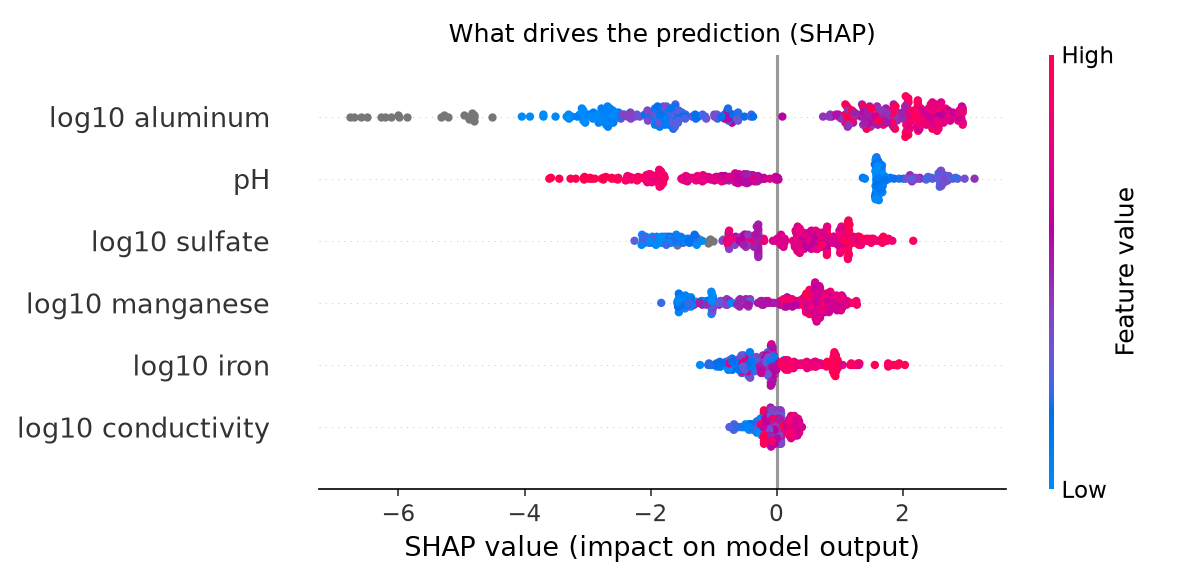
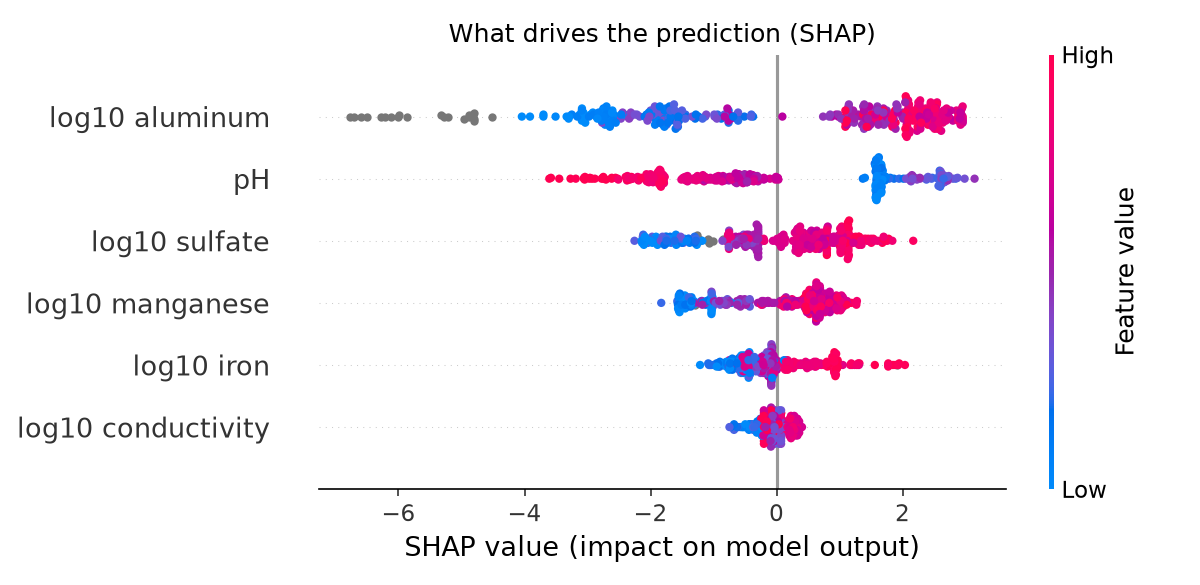
Refine ranking: magnitude model, tiers, sensitivity, field shortlist
- Add log10 Y regression (spatial CV R2 0.85, Spearman 0.92) to rank sites
  within likelihood tiers instead of near-tied probabilities
- Anthracite sensitivity check: 76/82 high-probability KY sites unchanged
- Flag KY sites whose chemistry is outside the training range
- Field shortlist of recent (1990+) surface-water candidates, duplicates
  within ~100 m merged
- Predicted vs measured Y figure

diff --git a/src/ky_ree/model.py b/src/ky_ree/model.py
@@ -35,8 +35,8 @@ import matplotlib.pyplot as plt
 import numpy as np
 import pandas as pd
 import shap
-from sklearn.ensemble import HistGradientBoostingClassifier
-from sklearn.metrics import roc_auc_score, roc_curve
+from sklearn.ensemble import HistGradientBoostingClassifier, HistGradientBoostingRegressor
+from sklearn.metrics import mean_absolute_error, r2_score, roc_auc_score, roc_curve
 from sklearn.model_selection import GroupKFold
 
 from ky_ree import config
@@ -51,6 +51,10 @@ SURFACE_WATER = ["Stream", "River/Stream", "River/Stream Perennial", "Mine/Mine 
                  "Spring", "Lake, Reservoir, Impoundment", "Pond", "River/Stream Intermittent"]
 SEED = 42
 REPORTS = config.ROOT / "reports"
+# PA counties in the anthracite fields. Eastern KY is bituminous coal, so we
+# check whether these sites change the model.
+ANTHRACITE_PA_COUNTIES = [107, 79, 69, 97, 25, 37, 43]
+STALE_BEFORE = 1990  # sites last sampled earlier are flagged as stale
 
 
 def add_features(df: pd.DataFrame) -> pd.DataFrame:
@@ -110,6 +114,58 @@ def spatial_cv(train: pd.DataFrame) -> dict:
     }
 
 
+def site_log_y() -> pd.Series:
+    """Median log10 of detected Y per site: the 'how much' target."""
+    long = pd.read_csv(config.INTERIM_DIR / "ree_water_long.csv")
+    y = long[(long["element"] == "Y") & long["detected"] & (long["value_ug_l"] > 0)]
+    return np.log10(y.groupby("site_id")["value_ug_l"].median()).rename("log_y")
+
+
+def make_regressor() -> HistGradientBoostingRegressor:
+    return HistGradientBoostingRegressor(
+        max_depth=3, learning_rate=0.05, max_iter=300, min_samples_leaf=15,
+        l2_regularization=1.0, random_state=SEED,
+    )
+
+
+def regression_cv(train: pd.DataFrame) -> dict:
+    """How well can we predict HOW MUCH yttrium, on held-out watersheds?"""
+    X, y, groups = train[FEATURES], train["log_y"], train["huc8"]
+    oof = pd.Series(np.nan, index=train.index)
+    for tr, te in GroupKFold(n_splits=5).split(X, y, groups):
+        oof.iloc[te] = make_regressor().fit(X.iloc[tr], y.iloc[tr]).predict(X.iloc[te])
+    with_ph = train["ph"].notna()
+    return {
+        "n_sites": int(len(train)),
+        "r2_log10": round(r2_score(y, oof), 3),
+        "mae_log10": round(mean_absolute_error(y, oof), 3),  # 0.3 ~ within a factor of 2
+        "spearman_model": round(oof.rank().corr(y.rank()), 3),
+        "spearman_baseline_low_ph": round((-train.loc[with_ph, "ph"]).rank().corr(y[with_ph].rank()), 3),
+        "_oof": oof,
+    }
+
+
+def out_of_range(train: pd.DataFrame, df: pd.DataFrame) -> pd.Series:
+    """How many of a site's features fall outside the training data's 1st-99th
+    percentile. Predictions there are extrapolations and less trustworthy."""
+    lo, hi = train[FEATURES].quantile(0.01), train[FEATURES].quantile(0.99)
+    outside = (df[FEATURES] < lo) | (df[FEATURES] > hi)
+    return outside.sum(axis=1)
+
+
+def plot_pred_vs_obs(y, pred, path) -> None:
+    fig, ax = plt.subplots(figsize=(5, 5))
+    ax.scatter(10 ** y, 10 ** pred, s=10, alpha=0.6)
+    lims = [10 ** min(y.min(), pred.min()), 10 ** max(y.max(), pred.max())]
+    ax.plot(lims, lims, "k:", lw=1, label="perfect prediction")
+    ax.set(xscale="log", yscale="log", xlabel="Measured Y (ug/L)", ylabel="Predicted Y (ug/L)",
+           title="Yttrium on held-out watersheds")
+    ax.legend(loc="upper left")
+    fig.tight_layout()
+    fig.savefig(path, dpi=150)
+    plt.close(fig)
+
+
 def plot_roc(y, curves: dict, path, title: str) -> None:
     fig, ax = plt.subplots(figsize=(5, 5))
     for name, score in curves.items():
@@ -164,31 +220,78 @@ def main() -> int:
     plt.close("all")
     importance = dict(zip(FEATURES, np.abs(sv.values).mean(axis=0).round(3).tolist()))
 
-    # 4. Score every Kentucky coal-field site.
+    # 4. Magnitude model: how much Y, trained on sites where Y was detected.
+    reg_data = sites.join(site_log_y(), how="inner")
+    reg_data = reg_data[reg_data[FEATURES].notna().any(axis=1)]
+    reg_train = reg_data[reg_data["state"] != "KY"]
+    rcv = regression_cv(reg_train)
+    print(f"Magnitude model, spatial CV: R2 {rcv['r2_log10']}, MAE {rcv['mae_log10']} log10 units, "
+          f"Spearman {rcv['spearman_model']} vs low-pH baseline {rcv['spearman_baseline_low_ph']}")
+    plot_pred_vs_obs(reg_train["log_y"], rcv["_oof"], REPORTS / "figures" / "pred_vs_obs_y.png")
+    regressor = make_regressor().fit(reg_train[FEATURES], reg_train["log_y"])
+
+    # 5. Sensitivity: does dropping PA anthracite sites change the Kentucky ranking?
+    bituminous = ~((train["state"] == "PA") & train["county_fips"].isin(ANTHRACITE_PA_COUNTIES))
+    cv_bit = spatial_cv(train[bituminous])
+    model_bit = make_model().fit(train.loc[bituminous, FEATURES], train.loc[bituminous, "elevated_y"])
+
+    # 6. Score every Kentucky coal-field site.
     ky = add_features(pd.read_csv(config.PROCESSED_DIR / "ky_sites.csv", index_col="site_id"))
     ky = ky[ky[FEATURES].notna().any(axis=1)].copy()
     ky["p_elevated_ree"] = model.predict_proba(ky[FEATURES])[:, 1].round(3)
+    ky["pred_y_ug_l"] = (10 ** regressor.predict(ky[FEATURES])).round(2)
+    ky["p_bituminous_only"] = model_bit.predict_proba(ky[FEATURES])[:, 1].round(3)
     ky["n_features"] = ky[FEATURES].notna().sum(axis=1)
+    ky["n_out_of_range"] = out_of_range(train, ky)
     ky["surface_water"] = ky["site_type"].isin(SURFACE_WATER)
-    ky = ky.sort_values("p_elevated_ree", ascending=False)
+    ky["stale"] = ky["last_year"] < STALE_BEFORE
+    sensitivity = {
+        "n_training_sites_without_anthracite": int(bituminous.sum()),
+        "spatial_cv_auc_without_anthracite": cv_bit["model_auc"],
+        "ky_rank_correlation_with_vs_without": round(float(ky["p_elevated_ree"].rank().corr(ky["p_bituminous_only"].rank())), 3),
+    }
+    hi = ky["surface_water"] & (ky["p_elevated_ree"] >= 0.8)
+    sensitivity["ky_high_sites_still_high_without_anthracite"] = f"{int((ky.loc[hi, 'p_bituminous_only'] >= 0.8).sum())}/{int(hi.sum())}"
+    print(f"Anthracite sensitivity: {sensitivity}")
+
+    # Ranking: group into likelihood tiers (0.998 vs 0.999 is not a real
+    # difference), then rank by predicted amount within each tier.
+    ky["tier"] = pd.cut(ky["p_elevated_ree"], [-0.01, 0.5, 0.8, 0.95, 1.0],
+                        labels=["4 unlikely", "3 possible", "2 likely", "1 very likely"])
+    ky = ky.sort_values(["tier", "pred_y_ug_l"], ascending=False)
+    ky["rank"] = np.arange(1, len(ky) + 1)
     ky.to_csv(config.PROCESSED_DIR / "ky_ranked.csv")
 
-    cols = ["site_name", "coal_field", "county_fips", "site_type", "lat", "lon", "p_elevated_ree",
-            "ph", "sulfate_mg_l", "al_ug_l", "n_features", "last_year", "Y_ug_l"]
-    top = ky[ky["surface_water"]].head(25)[cols]
-    top.to_csv(REPORTS / "ky_top_creeks.csv")
+    # 7. Field shortlist: surface water, likely elevated, trustworthy inputs.
+    # Several site IDs can be the same spot (different agencies), so merge
+    # sites within ~100 m (3 decimal places of lat/lon).
+    cand = ky[ky["surface_water"] & (ky["p_elevated_ree"] >= 0.8)
+              & (ky["n_features"] >= 3) & (ky["n_out_of_range"] <= 1)].copy()
+    cand["spot"] = cand["lat"].round(3).astype(str) + "," + cand["lon"].round(3).astype(str)
+    cand = cand.drop_duplicates("spot")
+    cols = ["rank", "site_name", "coal_field", "county_fips", "site_type", "lat", "lon",
+            "tier", "p_elevated_ree", "pred_y_ug_l", "ph", "sulfate_mg_l", "al_ug_l", "n_features",
+            "n_out_of_range", "last_year", "stale", "Y_ug_l"]
+    cand[cols].head(25).to_csv(REPORTS / "ky_top_creeks.csv")
+    recent = cand[~cand["stale"]]
+    recent[cols].head(15).to_csv(REPORTS / "ky_field_shortlist_recent.csv")
 
     metrics = {
         "target": f"median dissolved/total Y >= {THRESHOLD_UG_L} ug/L",
         "features": FEATURES,
         "spatial_cv": {k: v for k, v in cv.items() if not k.startswith("_")},
+        "magnitude_spatial_cv": {k: v for k, v in rcv.items() if not k.startswith("_")},
         "ky_transfer_test": transfer,
+        "anthracite_sensitivity": sensitivity,
         "mean_abs_shap": importance,
         "ky_sites_scored": int(len(ky)),
         "ky_surface_sites_p_over_0.5": int((ky["surface_water"] & (ky["p_elevated_ree"] > 0.5)).sum()),
+        "ky_shortlist_candidates": int(len(cand)),
+        "ky_shortlist_candidates_sampled_since_1990": int(len(recent)),
     }
     (REPORTS / "metrics.json").write_text(json.dumps(metrics, indent=2), encoding="utf-8")
-    print(json.dumps({k: metrics[k] for k in ("mean_abs_shap", "ky_sites_scored", "ky_surface_sites_p_over_0.5")}, indent=2))
+    print(json.dumps({k: metrics[k] for k in ("ky_sites_scored", "ky_surface_sites_p_over_0.5",
+                                              "ky_shortlist_candidates", "ky_shortlist_candidates_sampled_since_1990")}, indent=2))
     print(f"Top creeks -> {(REPORTS / 'ky_top_creeks.csv').relative_to(config.ROOT)}")
     return 0
 

diff --git a/docs/PLAN.md b/docs/PLAN.md
@@ -58,10 +58,14 @@ Timeline: ~10–12 weeks. Check items off as you go; this file doubles as a prog
 - [x] SHAP: aluminum is the top driver, then pH, sulfate (figures in `reports/figures/`)
 - [x] Ranked list: `data/processed/ky_ranked.csv`, top 25 surface-water sites in `reports/ky_top_creeks.csv`
 - [x] Data fix: pH filter tightened to 1.5–12.5 (pH 0.0 placeholders had created 19 fake "acidic" KY sites)
-- [ ] Probabilities saturate at 1.0 for many sites → add a regression on log10 Y (magnitude) to rank within the top tier
-- [ ] Training is PA-heavy (anthracite + bituminous); try coal-type / state as a check, or drop anthracite sites
-- [ ] Uncertainty: flag KY sites whose chemistry is outside the training range
-- [ ] Ranking for field work should weigh recency (many top sites last sampled 1965–1975)
+- [x] Magnitude model (log10 Y regression), spatial CV: R² 0.85, MAE 0.31 log10 (~factor of 2), Spearman 0.92 vs 0.85 baseline
+      KY check: Knott/Floyd predictions within ~2x of measured (e.g. RFBC10A 6.4 vs 6.2 µg/L). Red River site (18.6 measured vs 1.6 predicted) remains an outlier
+- [x] Ranking = likelihood tier (very likely ≥0.95 / likely / possible / unlikely), then predicted Y within tier
+- [x] Anthracite sensitivity: dropping 133 anthracite sites → CV AUC 0.98; 76/82 high-probability KY sites stay high. Kept anthracite; bituminous-only score saved as a column
+- [x] Out-of-range flag: 3,128 KY sites fully inside training range, 542 with 1 feature outside, 86 with 2+
+- [x] Field shortlist (`reports/ky_field_shortlist_recent.csv`): surface water, p ≥ 0.8, ≥3 measurements, ≤1 out-of-range, sampled 1990+, merged duplicates within ~100 m. 37 candidates
+  - Dominated by McCreary Co. mine drainage near Blue Heron (1995–97). NOTE: Blue Heron is inside Big South Fork NRRA (National Park Service), so sampling needs an NPS research permit
+  - Other recent: Cypress Creek & Beech Creek (Muhlenberg, 2009–13), Harlan 3MAR10026 (2009), Knott/Floyd FMB, SAB, RFBC (2013–14)
 
 ## Phase 4: Dashboard (weeks 7–8)
 - [ ] Streamlit + Folium map of ranked creeks
